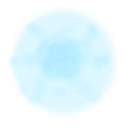
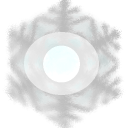
Added particles to ice arrow.

diff --git a/SpiralTrajectoryGame/public_html/src/MyGame/Objects/Arrows/IceArrow.js b/SpiralTrajectoryGame/public_html/src/MyGame/Objects/Arrows/IceArrow.js
@@ -7,7 +7,7 @@
 
 /*jslint node: true, vars: true */
 /*global gEngine, GameObject, TextureRenderable, vec2, RigidShape, RigidRectangle, Arrow
- *       Platform */
+ *       Platform, Config */
 /* find out more about jslint: http://www.jslint.com/help.html */
 
 "use strict";
@@ -45,8 +45,66 @@ var IceArrow = function(position,power,degree) {
     x=Math.cos(x);
     y=Math.sin(y);
     this.getRigidBody().setVelocity(x*this.power* this.kBasePower, y*this.power* this.kBasePower);
+    
+    this.mParticles = new ParticleGameObjectSet();
+    
     // Specific collision ignoring.
     //this.toggleDrawRigidShape();
 };
 
 gEngine.Core.inheritPrototype(IceArrow, Arrow);
+
+IceArrow.prototype.draw = function (camera) {
+    if (this.mParticles !== null) {
+        this.mParticles.draw(camera);
+    }
+    Arrow.prototype.draw.call(this, camera);
+};
+
+IceArrow.prototype.update = function() {
+    Arrow.prototype.update.call(this);
+    if (this.mTimeSinceSpawn%10 == 8 && Math.random() < .8 && this.getCollided() == false) {
+        this.mParticles.addEmitterAt(
+            this.getXform().getPosition(),
+            1,
+            this.createParticle,
+            this.type
+            );  
+    }
+
+    this.mParticles.update();
+
+};
+
+IceArrow.prototype.createParticle = function (x, y) {
+    var life;
+    if (this.mTimeLimit - this.mTimeSinceSpawn < 180) {
+        life = this.mTimeLimit - this.mTimeSinceSpawn;
+    }
+    else {
+        life = 180;
+    }
+    var p = new ParticleGameObject(
+        Config.BossBattle.Textures.SnowParticleTexture, 
+        x, 
+        y, 
+        life
+    );
+    p.getRenderable().setColor([.4, .5, 1, .3]);
+    
+    // size of the particle
+    var r = .5 + Math.random()*2;
+    p.getXform().setSize(r, r);
+
+    p.setFinalColor([1, 1, 1, 1]);
+    
+    var vx = 1 - 2*Math.random();
+
+    p.getParticle().setVelocity([vx, 0]);
+    p.setSizeDelta(1);
+    p.getParticle().setDrag(.98);
+
+    //p.getParticle().setAcceleration([0, -80]);
+    
+    return p;
+};

diff --git a/SpiralTrajectoryGame/public_html/src/MyGame/Objects/Arrows/Arrow.js b/SpiralTrajectoryGame/public_html/src/MyGame/Objects/Arrows/Arrow.js
@@ -25,6 +25,7 @@ function Arrow(position,power,degree) {
     
     this.kBasePower = 180;
     this.mTimeSinceSpawn = 0;
+    this.mTimeLimit = 600;
     this.mExpired=false;
     this.mCollided = false;
     
@@ -64,7 +65,7 @@ Arrow.prototype.update = function () {
             xform.setRotationInRad(Math.atan(vel[1]/(vel[0] + .0001)) + Math.PI/2);
         }
     }
-    if(this.mTimeSinceSpawn > 600){
+    if(this.mTimeSinceSpawn > this.mTimeLimit){
         this.setExpired(true);
     }
     if(this.mCollided===true) {

diff --git a/SpiralTrajectoryGame/public_html/src/MyGame/Objects/Arrows/ArrowSet.js b/SpiralTrajectoryGame/public_html/src/MyGame/Objects/Arrows/ArrowSet.js
@@ -22,7 +22,7 @@ class ArrowSet extends GameObjectSet {
         // { Regular : 0, Fire : 1, Ice : 2 }
         // Cooldowns (frames) for each type of arrow
         this.kCooldowns = [20, 180, 180];
-        this.mTimeSinceSpawn = [0, 0, 0];
+        this.mTimeSinceSpawn = [20, 180, 180];
         // max count of each arrow type
         this.kMaxCount = [25, 8, 8];
         
